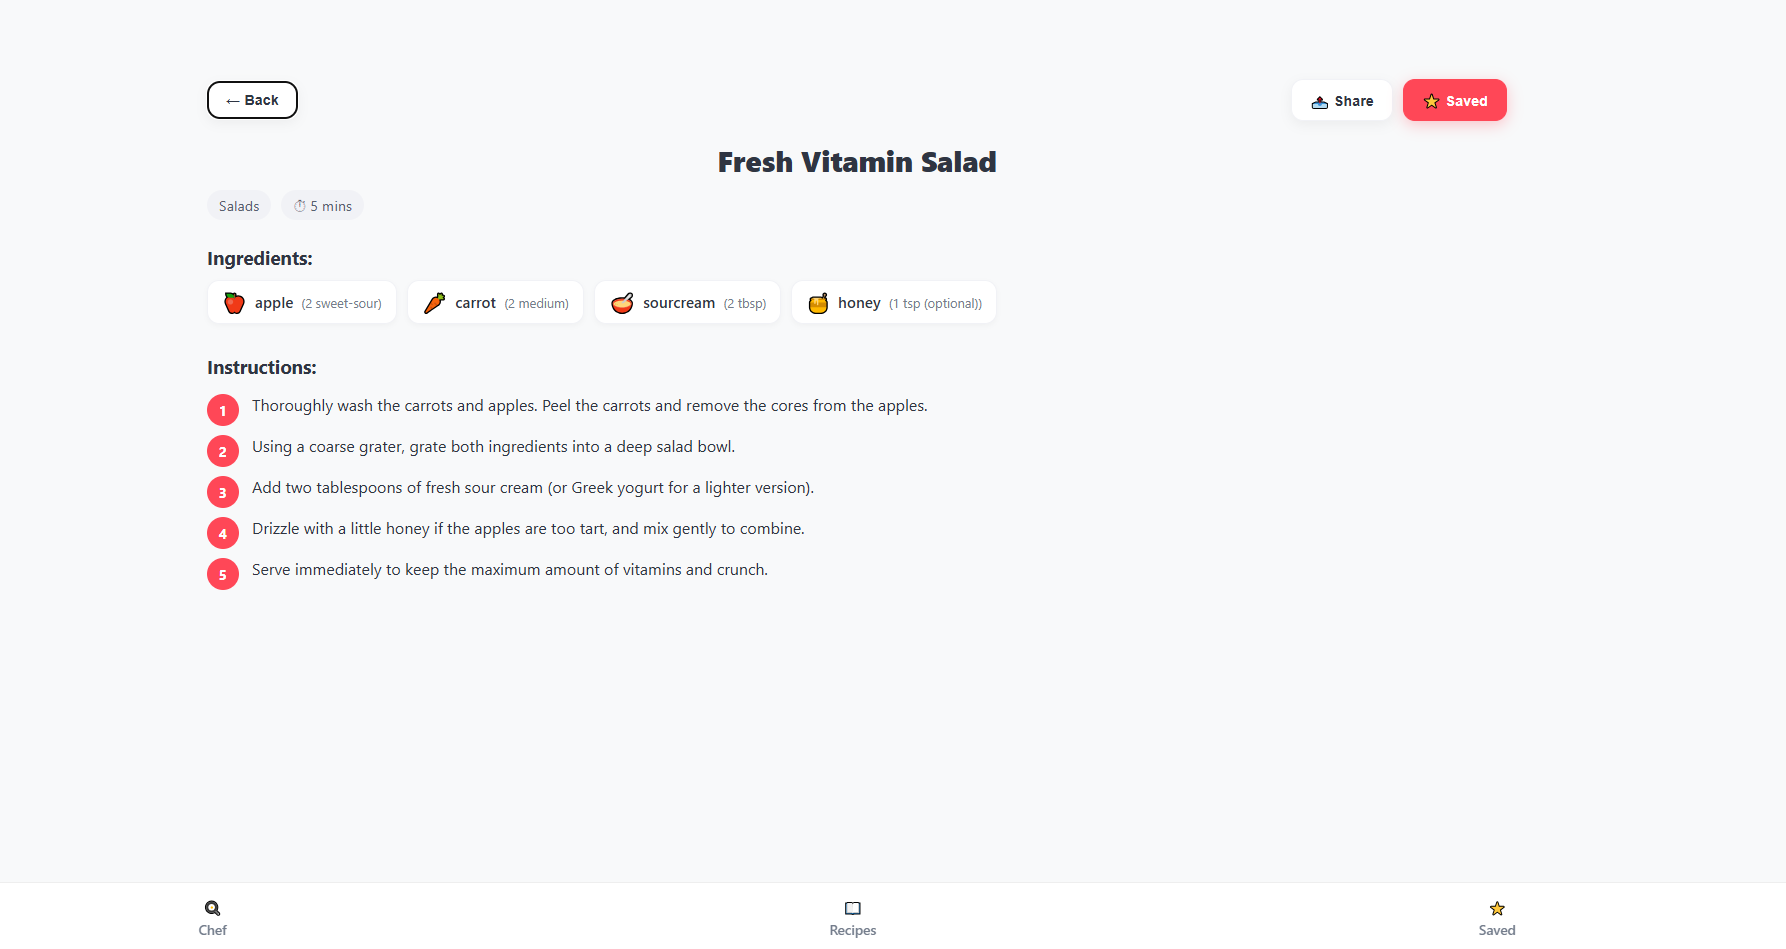
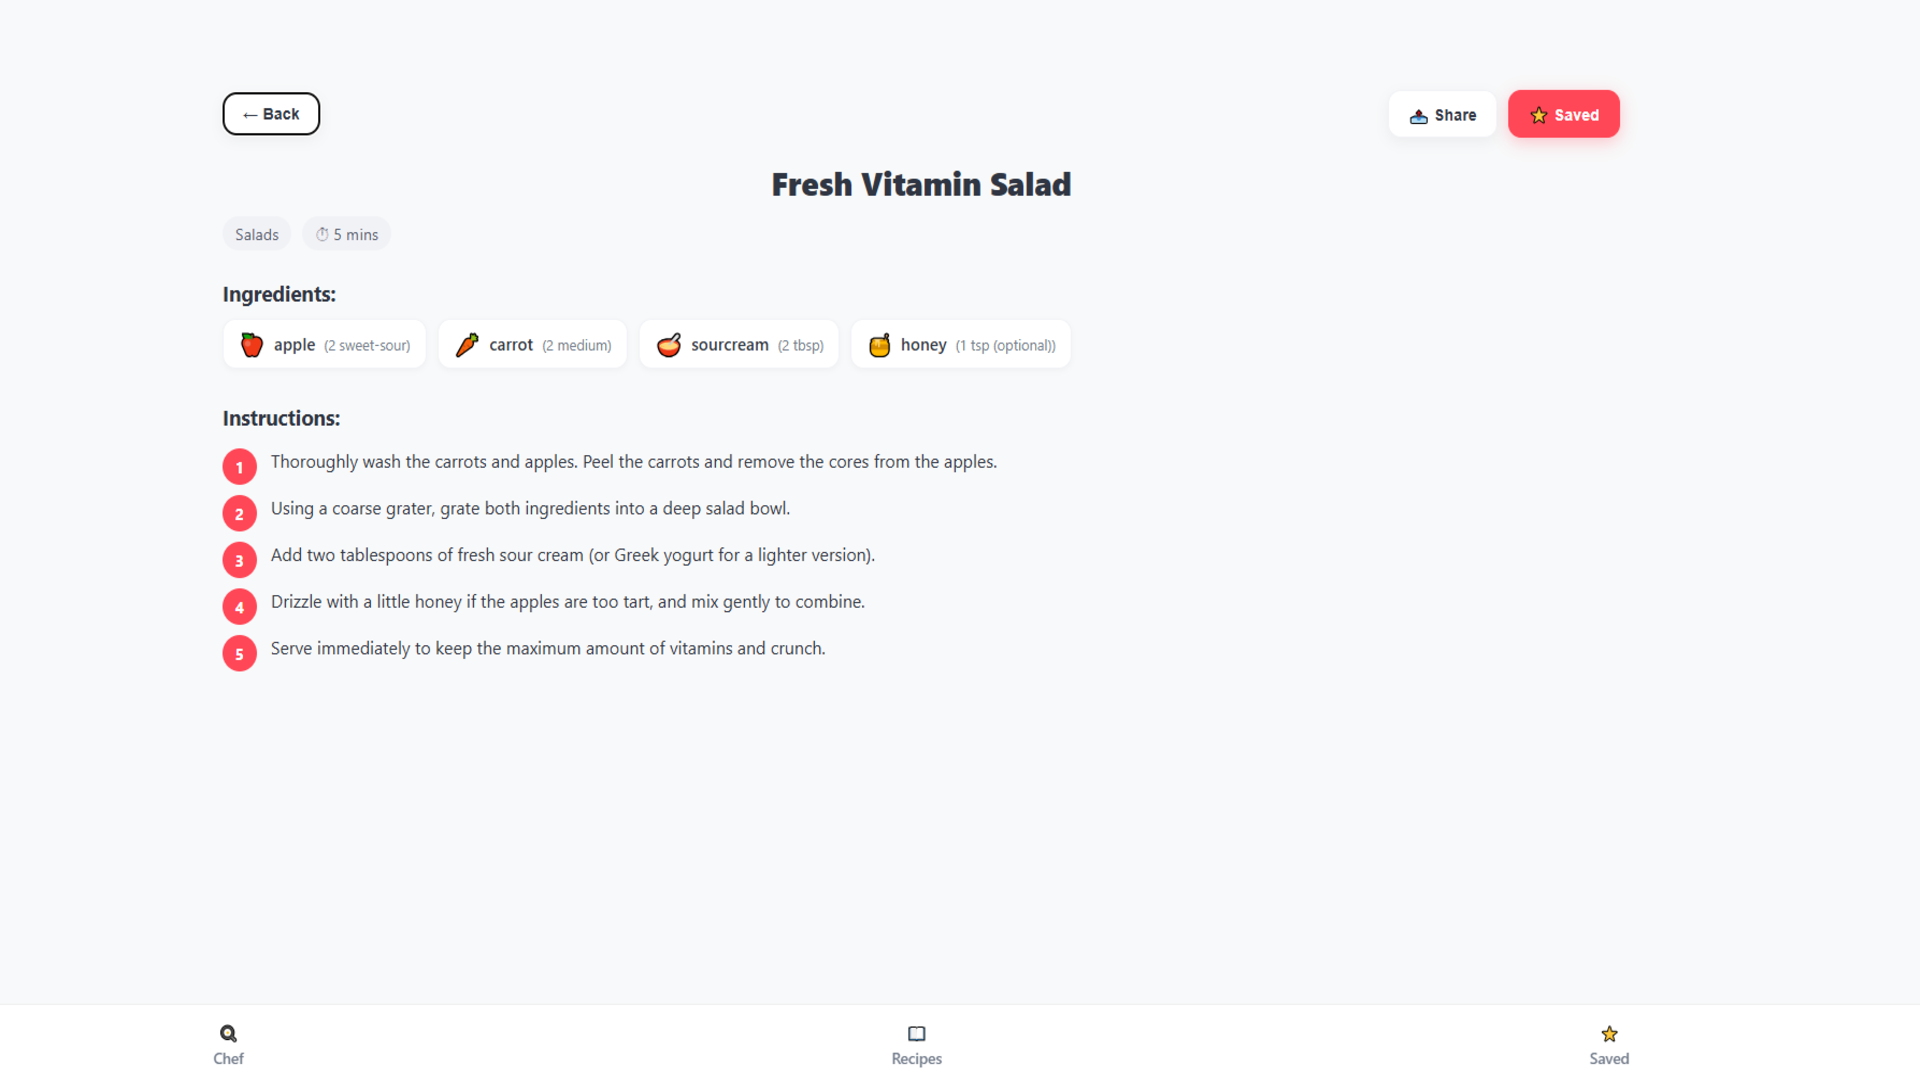
fix: manifest validation (correct screenshot sizes, types and added app id)

diff --git a/src/styles/AllRecipes.css b/src/styles/AllRecipes.css
@@ -1,5 +1,5 @@
 .all-recipes-container {
-  max-width: 1300px; /* Увеличили для ПК */
+  max-width: 1300px;
   width: 90%;
   margin: 0 auto;
   padding: 40px 0 100px;
@@ -9,7 +9,7 @@
 .filters-section {
   position: sticky;
   top: 0;
-  background: rgba(248, 249, 250, 0.9); /* Полупрозрачный фон */
+  background: rgba(248, 249, 250, 0.9); 
   backdrop-filter: blur(10px);
   padding: 20px 0;
   z-index: 100;
@@ -19,7 +19,7 @@
 /* Поле поиска */
 .search-bar {
   width: 100%;
-  max-width: 600px; /* Чтобы на ПК поиск не растягивался на весь экран */
+  max-width: 600px; 
   display: block;
   margin: 0 auto 20px;
   padding: 16px 25px;
@@ -41,7 +41,7 @@
 /* Контейнер категорий */
 .category-scroll {
   display: flex;
-  justify-content: center; /* Центрируем категории на ПК */
+  justify-content: center; 
   gap: 12px;
   overflow-x: auto;
   padding: 10px 5px;
@@ -71,7 +71,7 @@
 }
 
 .cat-chip.active {
-  background: #ff4757; /* Сочный красный под стиль All Recipes */
+  background: #ff4757; 
   color: white;
   box-shadow: 0 8px 20px rgba(255, 71, 87, 0.3);
 }
@@ -135,7 +135,7 @@
 
 @media (max-width: 768px) {
   .category-scroll {
-    justify-content: flex-start; /* На мобилках прижимаем к левому краю для скролла */
+    justify-content: flex-start;
     padding-left: 20px;
   }
   .all-recipes-container {
@@ -145,10 +145,10 @@
 }
 
 .card-content {
-  padding: 20px; /* Увеличили отступы от краев карточки */
+  padding: 20px;
   display: flex;
   flex-direction: column;
-  gap: 8px; /* Расстояние между блоками внутри */
+  gap: 8px; 
 }
 
 .category-tag {
@@ -164,12 +164,12 @@
 .card-content h3 {
   margin: 0;
   font-size: 1.25rem;
-  line-height: 1.3; /* Чтобы строки не слипались */
+  line-height: 1.3; 
   color: #2f3542;
   font-weight: 800;
 }
 
-/* Стилизация текста ингредиентов */
+
 .card-ingredients-preview {
   margin: 4px 0 12px 0;
   line-height: 1.4;
@@ -177,8 +177,8 @@
 
 .mini-ing-text {
   font-size: 0.9rem;
-  color: #747d8c; /* Приятный серый цвет */
-  background: none; /* Убрали серый фон */
+  color: #747d8c; 
+  background: none; 
   padding: 0;
 }
 
@@ -190,11 +190,11 @@
 
 /* Нижняя панель */
 .card-info {
-  margin-top: auto; /* Прижимаем время к низу */
+  margin-top: auto; 
   padding-top: 15px;
   border-top: 1px solid #f1f2f6;
   display: flex;
-  justify-content: flex-start; /* Время теперь просто слева */
+  justify-content: flex-start; 
 }
 
 .time-tag {

diff --git a/vite.config.js b/vite.config.js
@@ -10,6 +10,7 @@ export default defineConfig({
       devOptions: { enabled: true },
       includeAssets: ['favicon.ico', 'apple-touch-icon.png', 'mask-icon.svg'],
       manifest: {
+        id: '/', 
         name: 'SmartChef: AI Recipe Finder',
         short_name: 'SmartChef',
         description: 'Cook with what’s in your fridge!',
@@ -39,18 +40,17 @@ export default defineConfig({
             purpose: 'any'
           }
         ],
-
         screenshots: [
           {
             src: 'screenshot-mobile.jpg', 
-            sizes: '1080x1920',
-            type: 'image/png',
+            sizes: '623x1280',
+            type: 'image/jpeg', 
             form_factor: 'narrow',
             label: 'SmartChef Home Screen'
           },
           {
             src: 'screenshot-desktop.png',
-            sizes: '1920x1080',
+            sizes: '1786x949', 
             type: 'image/png',
             form_factor: 'wide',
             label: 'SmartChef Desktop View'

diff --git a/src/pages/Favorites.jsx b/src/pages/Favorites.jsx
@@ -31,7 +31,6 @@ const Favorites = () => {
                 <span className="category-tag">{r.category}</span>
                 <h3>{r.title}</h3>
                 
-                {/* Добавили блок ингредиентов как на странице All Recipes */}
                 <div className="card-ingredients-preview">
                   {r.ingredients.slice(0, 3).map((ing, index) => (
                     <span key={index} className="mini-ing-text">

diff --git a/src/index.css b/src/index.css
@@ -1,4 +1,3 @@
-/* Глобальный сброс */
 * {
   margin: 0;
   padding: 0;
@@ -18,7 +17,6 @@ body {
   background-color: #f8f9fa;
   color: #2f3542;
   font-family: -apple-system, BlinkMacSystemFont, 'Segoe UI', Roboto, sans-serif;
-  /* УБРАЛИ place-items: center и display: flex */
 }
 
 /* Ссылкам убираем подчеркивание по умолчанию */

diff --git a/src/pages/AllRecipes.jsx b/src/pages/AllRecipes.jsx
@@ -76,7 +76,6 @@ const AllRecipes = () => {
 
               <div className="card-info">
                 <span className="time-tag">⏱ {r.prepTime}</span>
-                {/* Кол-во айтемов удалили отсюда */}
               </div>
             </div>
           </Link>

diff --git a/src/pages/SmartChef.jsx b/src/pages/SmartChef.jsx
@@ -129,7 +129,6 @@ const SmartChef = () => {
                   <h3>{r.title}</h3>
                   <p>⏱ {r.prepTime} • {r.category}</p>
                 </div>
-                {/* Убрали match-badge отсюда */}
               </Link>
             ))}
           </div>

diff --git a/src/styles/Favorites.css b/src/styles/Favorites.css
@@ -17,7 +17,7 @@
 
 /* Стилизация карточки избранного */
 .favorite-card {
-  border-left: 4px solid #ffcc00; /* Золотистая полоска слева */
+  border-left: 4px solid #ffcc00; 
   background: white;
   transition: all 0.3s ease;
 }
